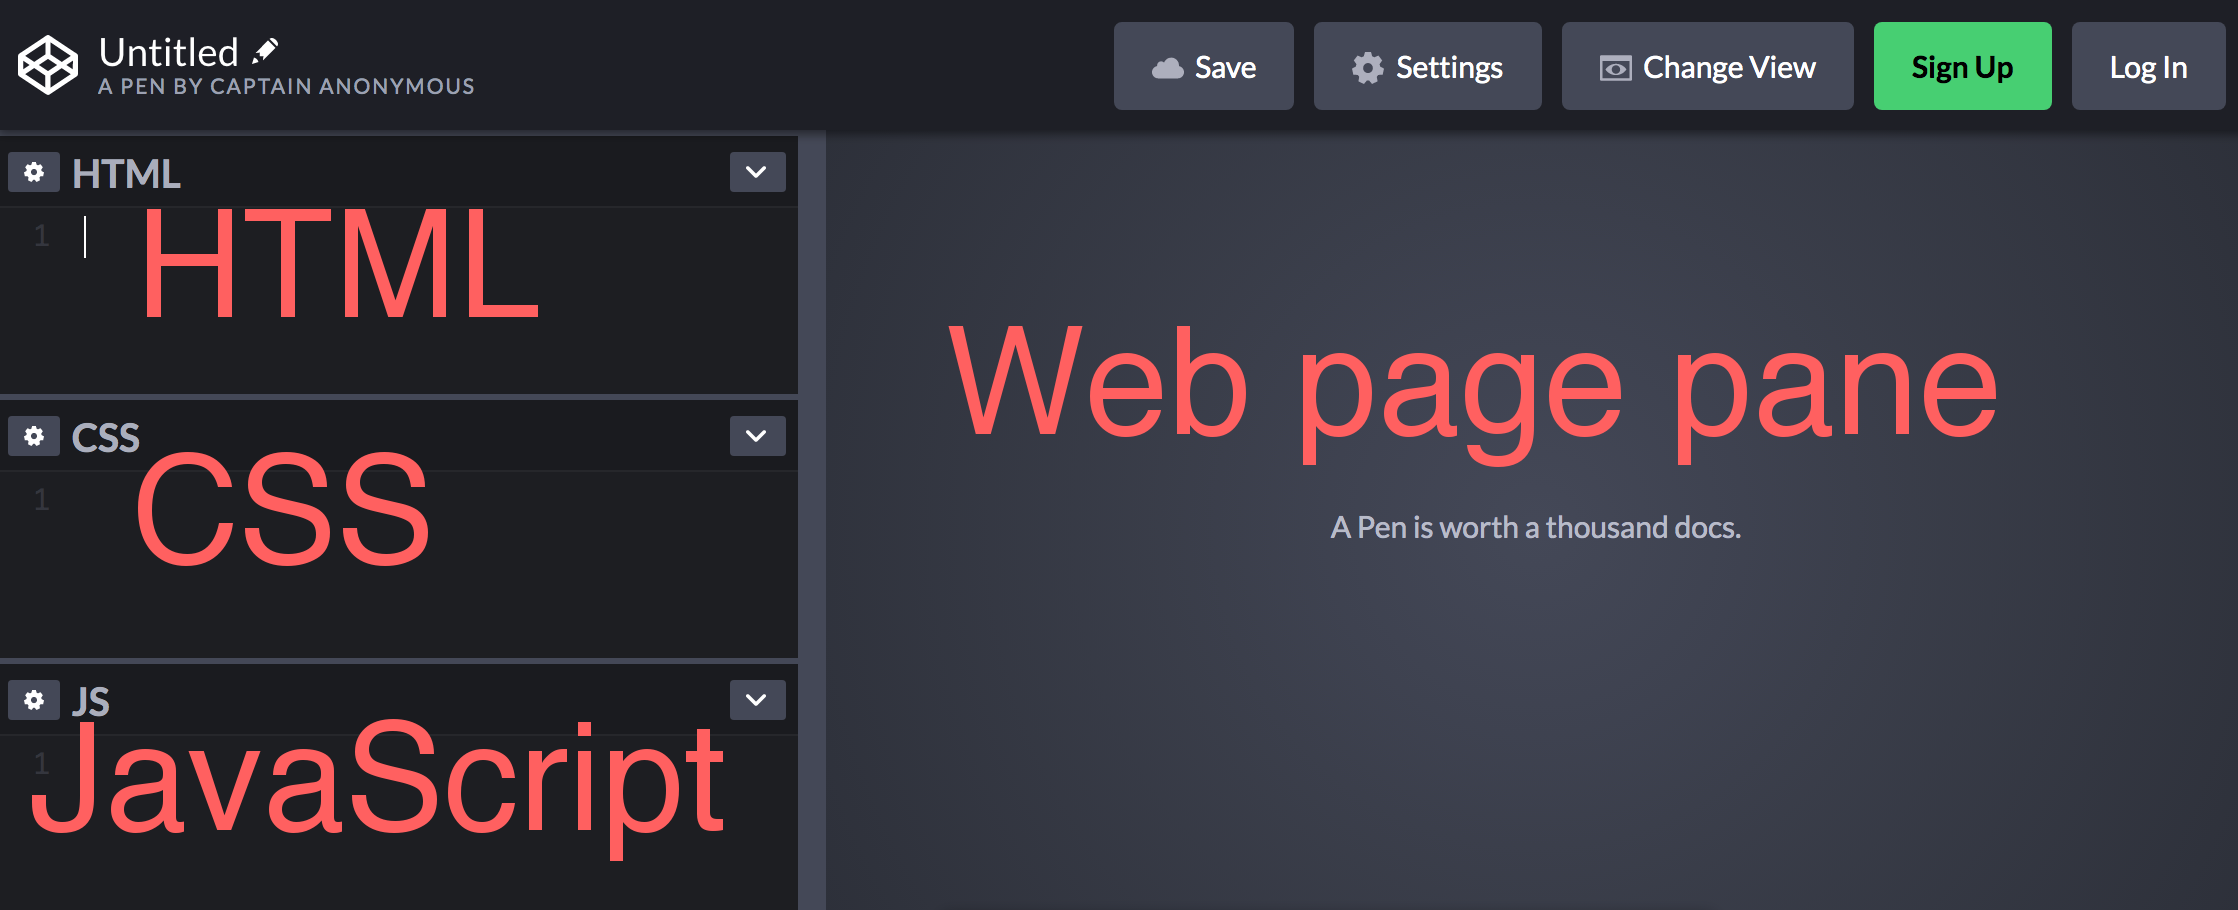
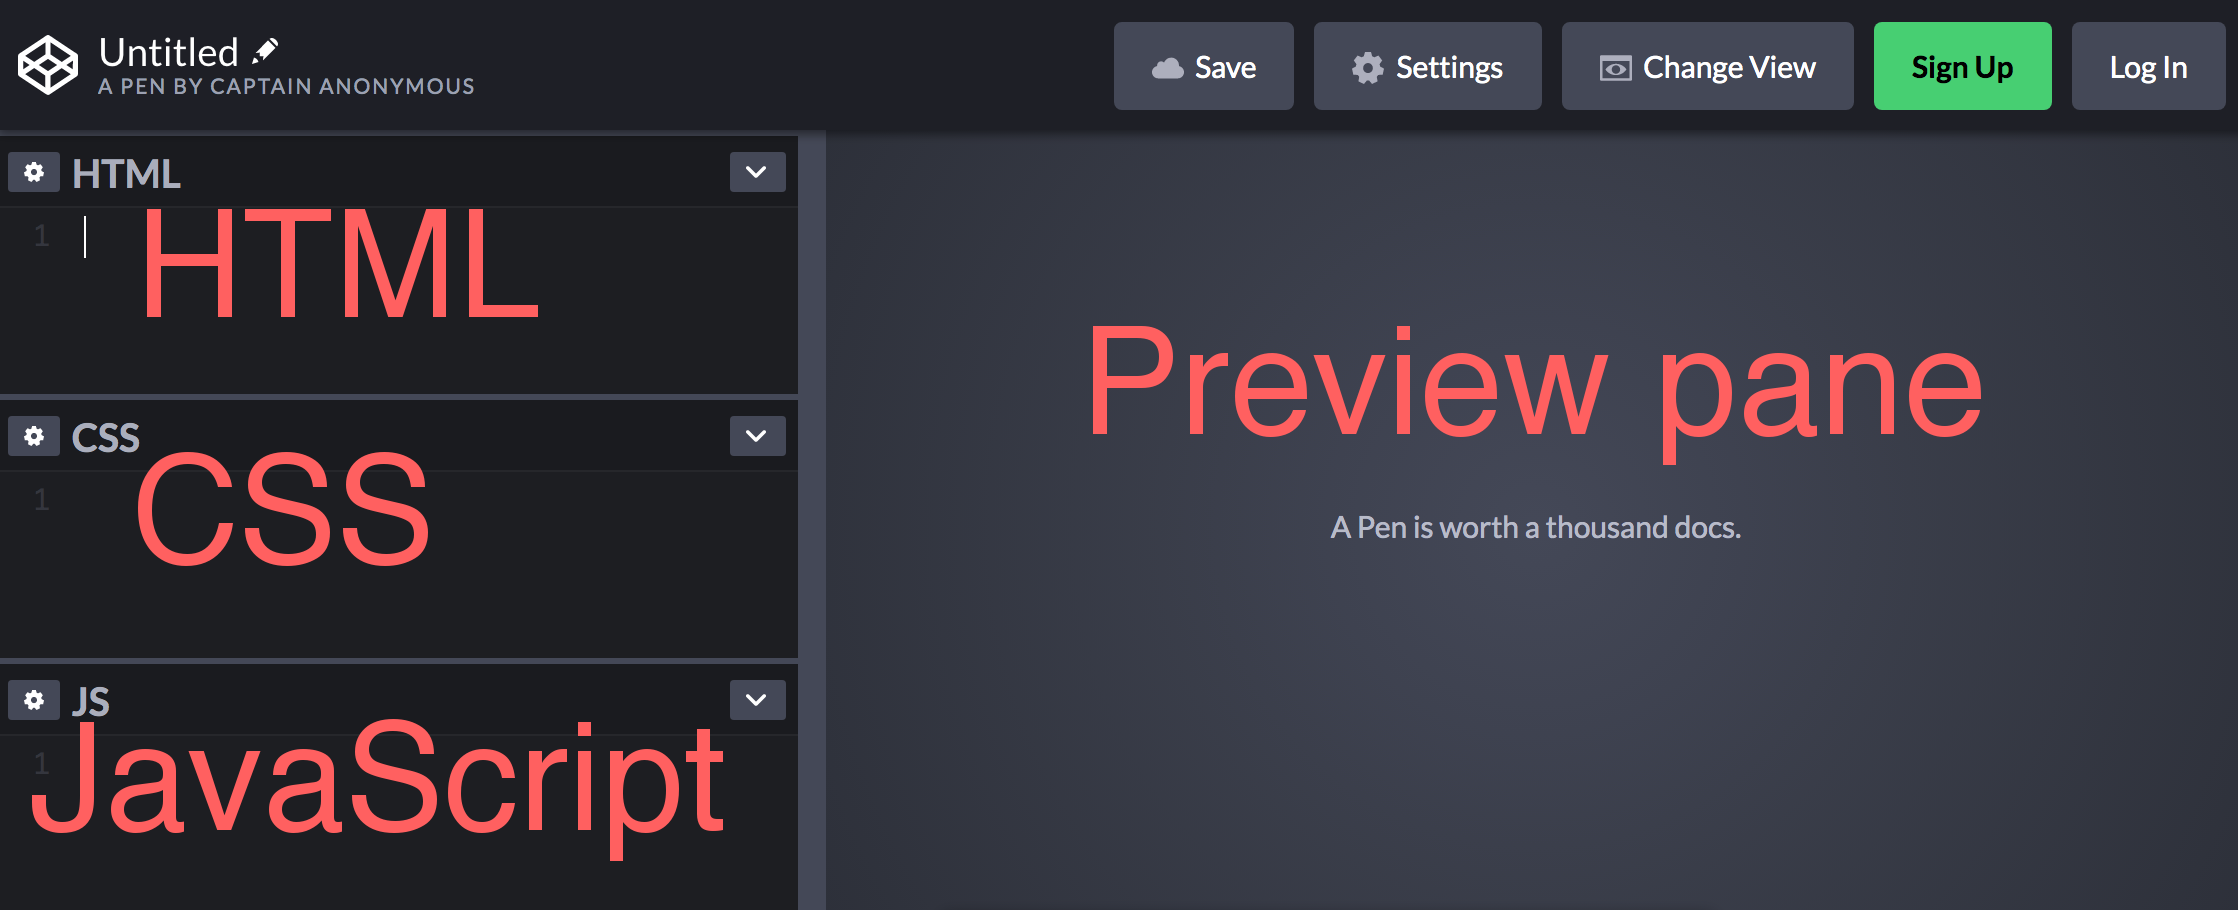
Preview pane

Changed region(s): [[0.4008, 0.3385, 0.8941, 0.5231]]

diff --git a/vol2/index.php b/vol2/index.php
@@ -197,7 +197,7 @@ stepheader('note-codepen-howto', 'CodePen panes'); ?>
 
 
     <p>The way it works is: you will construct a web page by typing in (or pasting) code into the first three panes.
-        Then, a web page (your web page) will automatically appear in the fourth pane.</p>
+        Then, a web page (your web page) will automatically appear in the fourth pane, the &ldquo;preview pane.&rdquo;</p>
 
     <p>Let&rsquo;s build our first web page in the next step.</p>
 
@@ -222,7 +222,7 @@ stepheader('note-intro-html', 'Introduction to HTML'); ?>
 
 <? prehtml("This is just some plain text.") ?>
 
-    <p>The text you entered should automatically appear in the web-page pane:</p>
+    <p>The text you entered should automatically appear in the preview pane:</p>
 
     <? screenshot_vol2('codepen-plaintext.png', True, True) ?>
 
@@ -246,12 +246,12 @@ stepheader('note-i-b', 'Italics and bold'); ?>
 
     <p><? codehtml('<i>') ?> tags create italicized text, and <? codehtml('<b>') ?> tags create bold text.</p>
 
-    <p>Notice how in the HTML pane, each sentence is on its own line, yet in the web-page pane each sentence appears one after the other.</p>
+    <p>Notice how in the HTML pane, each sentence is on its own line, yet in the preview pane each sentence appears one after the other.</p>
 
     <p>On another note, I assume, at this point, that you have gotten the hang of using CodePen.
         Therefore, henceforth, I will not display screenshots of CodePen. Rather,
-    I will just display what the web-page pane should show. For example, for this step,
-    the web-page pane should look something like:</p>
+    I will just display what the preview pane should show. For example, for this step,
+    the preview pane should look something like:</p>
 
 
     <div class="html-page">
@@ -276,7 +276,7 @@ stepheader('note-p-tag', 'The div tag'); ?>
 <? prehtml("<div><i>This text is italicized.</i></div>
 <div><b>This text is bold.</b></div>") ?>
 
-    <p>Your CodePen web-page pane should look something like:</p>
+    <p>Your CodePen preview pane should look something like:</p>
 
     <div class="html-page">
 <div>
@@ -310,7 +310,7 @@ stepheader('note-intro-css', 'Introduction to CSS'); ?>
     The background of this div is gray.
 </div>") ?>
 
-    <p>Your CodePen web-page pane should look something like:</p>
+    <p>Your CodePen preview pane should look something like:</p>
 
     <div class="html-page">
 <div style='background-color:wheat'>
@@ -360,7 +360,7 @@ stepheader('note-css-pane', 'The CSS pane'); ?>
 
 
 
-<p>Your CodePen web-page pane should look something like:</p>
+<p>Your CodePen preview pane should look something like:</p>
 
     <div class="html-page">
 <div style='background-color:turquoise'>
